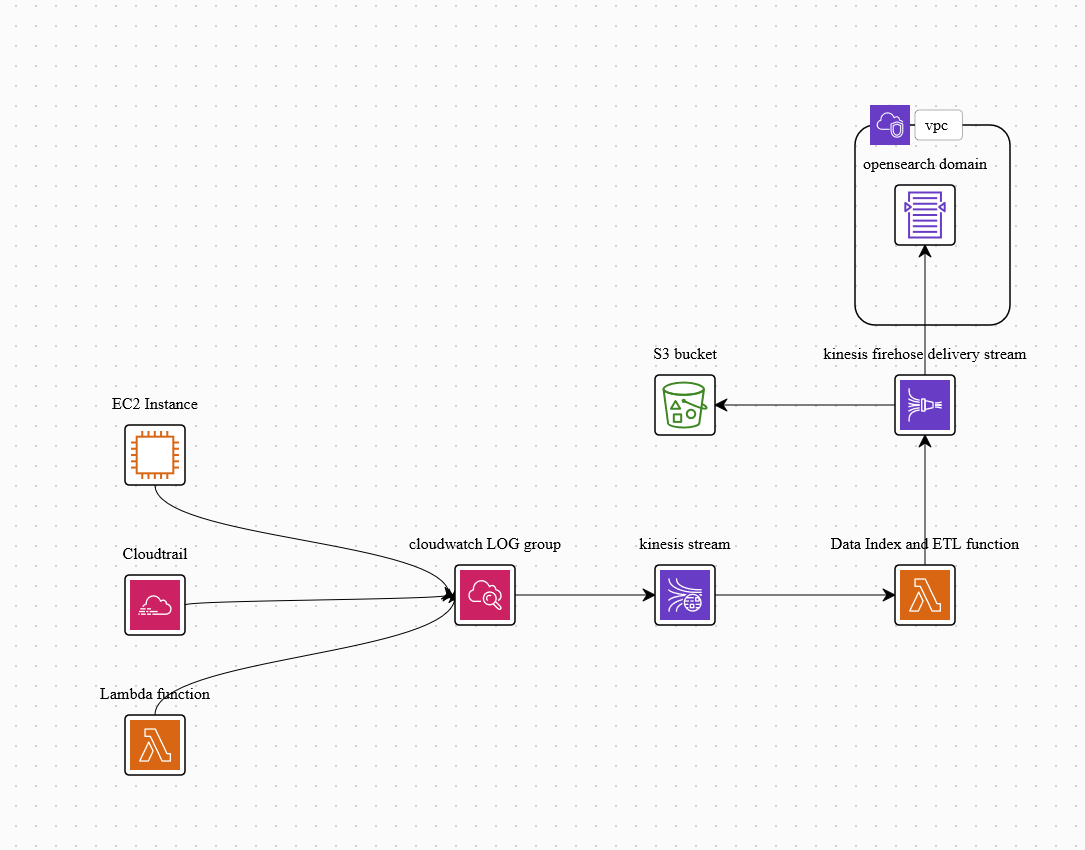
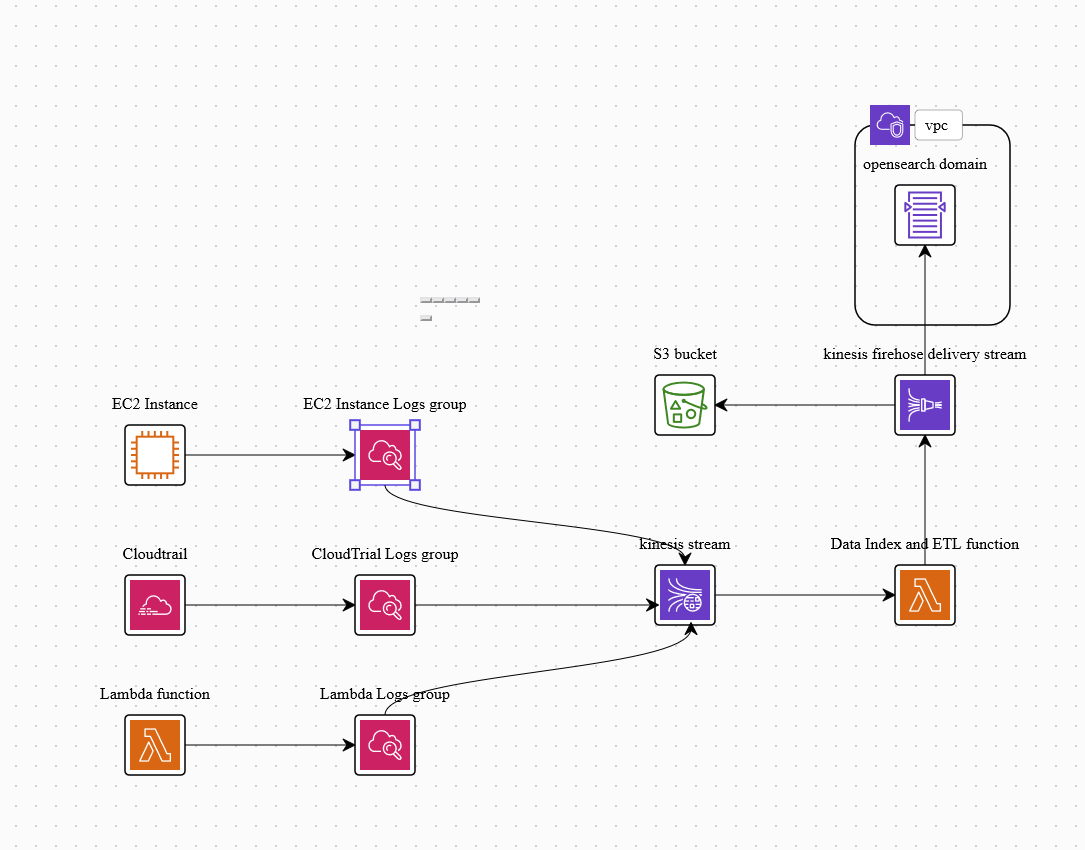
update docs

diff --git a/README.md b/README.md
@@ -1,10 +1,10 @@
-# CloudWatch Logs to OpenSearch Using Kinesis
+# Unified Logging Solution using AWS Services
 
-This article/repo is all about instructions, steps, and usage of IaC (Infrastructure as a Code) on how to construct a unified logging solution inside AWS using CloudWatch, Kinesis, Kinesis Firehose, and OpenSearch. Despite the fact that there are numerous logging solutions available, this one is best suited for organizations that rely heavily on AWS for infrastructure. There is no need to rely on other provider or services, everything can be done within the AWS.
+This article/repo is all about instructions, steps, and usage of IAC (Infrastructure as a Code) on how to construct a unified logging solution inside AWS using CloudWatch, Kinesis, Kinesis Firehose, and OpenSearch. Despite the fact that there are numerous logging solutions available, this one is best suited for organizations that rely heavily on AWS for infrastructure. There is no need to rely on other provider or services, everything can be done within the AWS.
 
-![Infa Diagram](assets/images/infra-diagram.png)
+![infra-diagram.png](/assets/images/infra-diagram.png)
 
-Logs could come from anywhere, CloudTrails, Ec2, S3, Billing, or Custom Applications, but in this one, I’m about to use custom logs from Ec2 Debian Based Instance as example.
+Logs could come from anywhere, CloudTrail's, Ec2, S3, Billing, or Custom Applications, but in this one, I’m about to use logs from Ec2 Debian Based Instance as example.
 
 ## **Setup using AWS UI Wizard**
 
@@ -41,12 +41,12 @@ sudo /opt/aws/amazon-cloudwatch-agent/bin/amazon-cloudwatch-agent-ctl -a fetch-c
 
 **CloudWatch to Amazon Kinesis**
 
-- Create the **Kinesis Stream** in **Amazon Kinesis**
+- Create the **Kinesis Data Stream** in **Amazon Kinesis.**
 - Create the **IAM Policy** for to access Kinesis Stream from **CloudWatch** with following permission
 
 ```json
 {
-  "Version": "2012-10-17",
+	"Version": "2012-10-17",
   "Statement": [{
     "Effect": "Allow",
     "Action": "kinesis:PutRecord",
@@ -55,7 +55,7 @@ sudo /opt/aws/amazon-cloudwatch-agent/bin/amazon-cloudwatch-agent-ctl -a fetch-c
 }
 ```
 
-- Create the **IAM Role** with **Custom trust policy** role type and by using above policy; Sample JSON below
+- Create the **IAM Role** with **Custom trust policy** role type by custom JSON **(Since the CloudWatch logs is not in already defined AWS Services, need to write custom policy)**
 
 ```json
 {
@@ -63,7 +63,7 @@ sudo /opt/aws/amazon-cloudwatch-agent/bin/amazon-cloudwatch-agent-ctl -a fetch-c
   "Statement": {
     "Effect": "Allow",
     "Principal": {
-      "Service": "logs.region.amazonaws.com"
+      "Service": "logs.<REGION>.amazonaws.com"
     },
     "Action": "sts:AssumeRole",
     "Condition": {
@@ -75,7 +75,8 @@ sudo /opt/aws/amazon-cloudwatch-agent/bin/amazon-cloudwatch-agent-ctl -a fetch-c
 }
 ```
 
-- Go to the **CloudWatch** and selecte the desire **Log Group**
+- During **IAM Role** creation, attached the above **IAM Policy**,
+- Go to the **CloudWatch** and select the desired **Log Group**
 - Select to **Action Subscription Filters.**
 - To configure the Destination choose **Create Kinesis Subscription Filter**.
     - Select **Current Account**.
@@ -87,55 +88,148 @@ sudo /opt/aws/amazon-cloudwatch-agent/bin/amazon-cloudwatch-agent-ctl -a fetch-c
     method might also incur higher streaming costs because it requires more 
     shards.
     - **Random** - Distributes the load across Kinesis stream shards, but downstream consumers can't aggregate log events by log stream.
-- Configure log format and named the filter (Filter is the main point in streaimg to other services)
+- Configure log format and named the filter (Filter is the main point in streaming to other services)
 - Verify the pattern
 - Click **Start Streaming**
 
-**Kinesis to Kinesis Firehose and OpenSearch by using Lambda function and S3 as stored and ETL**
+**Creating S3 for Data Stored and AWS Lambda for Data Transformation**
 
 - Go to AWS **S3**
     - Create **bucket** for storing the **firehose logs backup**
 - Go to **AWS Lambda**
-    - Create function to process **Kinesis Logs** aka ETL Function**;** Sample code in javascript below
+    - Create function to process **Kinesis Logs** aka ETL Function**; using the following JavaScript code** below. **(Following code only work in Node.js 18 runtime or above )**
 
 ```jsx
-console.log('Loading function');
+import zlib from "zlib";
 
-exports.handler = async (event, context) => {
-    /* Process the list of records and transform them */
-    const output = event.records.map((record) => ({
-        /* This transformation is the "identity" transformation, the data is left intact */
+export const handler = async (event, context) => {
+  let success = 0; // Number of valid entries found
+  let failure = 0; // Number of invalid entries found
+  /* Process the list of records */
+  const output = event.records.map((record) => {
+    try {
+      const result = zlib
+        .gunzipSync(Buffer.from(record.data, "base64"))
+        .toString();
+      console.log(result);
+      success++;
+      return {
         recordId: record.recordId,
-        result: 'Ok',
-        data: record.data,
-    }));
-    console.log(`Processing completed.  Successful records ${output.length}.`);
-    return { records: output };
+        result: "Ok",
+        data: new Buffer(result).toString("base64"),
+      };
+    } catch (e) {
+      console.log(e);
+      failure++;
+    }
+  });
+  console.log(
+    `Processing completed.  Successful records ${success}, Failed records ${failure}.`
+  );
+  return { records: output };
 };
 ```
 
       
+
+**Configure the Firehose and OpenSearch**
+
+For the better security OpenSearch will run inside VPC, Kinesis Data Firehose can now deliver data into an Amazon OpenSearch Service VPC endpoint. This provides a secure and easy way to ingest, transform, and deliver streaming data. You don’t need to worry about managing your data ingestion and delivery infrastructure. With this new feature, Kinesis Data Firehose enables additional secure communication to Amazon OpenSearch Service VPC endpoints. Amazon OpenSearch Service endpoints that live within a VPC give you an extra layer of security.
+
+When you create a Kinesis Data Firehose delivery stream that delivers data to an Amazon OpenSearch Service VPC endpoint, Kinesis Data Firehose creates an Elastic Network Interface (ENI) in each subnet you select. If you only use one Availability Zone, Kinesis Data Firehose places an endpoint into only one subnet. Similarly, when you create an Amazon OpenSearch Service VPC endpoint, it creates endpoints in the subnets you chose. Kinesis Data Firehose uses ENI to deliver the data to your Amazon OpenSearch Service ENI, all inside your VPC. 
+
+In order to ingest data into OpenSearch which is inside the VPC, need to create multiple security group inside the VPC. At first just create two empty security groups, The one is for Firehose to deliver the stream data and the one for OpenSearch to use. 
+
+**Kinesis Firehose Delivery Security Group**
+
+| Inbound (empty) |  |  |  |
+| --- | --- | --- | --- |
+| Outbound |  |  |  |
+| Type | Protocol | Port Range | Destination |
+| HTTPS | TCP | 443 |  |
+
+**OpenSearch Security Group**
+
+| Inbound |  |  |  |
+| --- | --- | --- | --- |
+| Type | Protocol | Port | Destination |
+| HTTP | TCP | 80 | <Bastion Host IP> |
+| HTTPS | TCP | 443 | <Bastion Host IP> |
+| Outbound |  |  |  |
+| Type | Protocol | Port Range | Destination |
+| All Traffic | All | All |  |
+
+After creating two security groups, need to link them using HTTPS rules like below
+
+**Kinesis Firehose Delivery Security Group (Linked)**
+
+| Inbound (empty) |  |  |  |
+| --- | --- | --- | --- |
+| Outbound |  |  |  |
+| Type | Protocol | Port Range | Destination |
+| HTTPS | TCP | 443 | <OpenSearch Security Group> |
+
+**OpenSearch Security Group (Linked)**
+
+| Inbound |  |  |  |
+| --- | --- | --- | --- |
+| Type | Protocol | Port | Destination |
+| HTTP | TCP | 80 | <Bastion Host IP> |
+| HTTPS | TCP | 443 | <Bastion Host IP> |
+| HTTPS | TCP | 443 | <Firehose Security Group> |
+| Outbound |  |  |  |
+| Type | Protocol | Port Range | Destination |
+| All Traffic | All | All |  |
+
+After creating the security groups:
 
 - Go to **Amazon OpenSearch Service**
     - Click on **Domains** and then click on **Create Domain**
     - Give desire **domain name**
     - Enable **Custom endpoint** or not, (Disable for POC, too complicated for now)
     - Choose **Deployment Type**
-    - Choose **Version** (Only ElasticSearch support dashboard right now)
+    - Choose **Version** (Only Elasticsearch support dashboard right now)
     - Choose **Auto Tune**
     - Choose **Data Nodes**
+    - 
     - In **Network** section, choose VPC access
         - Select **VPC**
         - Select **Subnets**
-        - Select **Security Group (**Enable HTTP and HTTPS to access from Bastion Host or Inside Instances**)**
+        - Select created **OpenSearch Security Group** from above
     - Choose **Fine-grained access control**
+    - Choose **Create master user** and then create master user
     - Create the **OpenSearch Domain**
+
 - Go the **Amazon Kinesis Firehose**
 - Click on **Create Delivery Stream**
     - Choose **Source** and **Destination (**Source: Amazon Kinesis Data Streams and Destination: Amazon OpenSearch Service for current setup**)**
     - Choose **Kinesis data stream**
     - Type **Delivery stream name**
     - Enable **Transform records**, choose created **Lambda Function**
-    - Choose **OpenSearch Domain** and Configure
+    - Choose the created **OpenSearch Domain**
+    - Named the index as **unified-logs** and in index rotation choose **daily rotation**
+    - Configure VPC as in same VPC as the OpenSearch
+    - Choose **Subnet**
+    - Select created **Kinesis Firehose Security Group** from above
     - In **Backup Settings** choose created **S3**
     - Click on **Create delivery stream**
+    
+
+When all of the above steps are finished, need login into OpenSearch using master username and password. Inside the OpenSearch need to do few configuration. Since, **Fine grant control** is enable at OpenSearch, need to grant permissions to **Firehose Delivery** to deliver the data to **OpenSearch.**
+
+- Login into **OpenSearch** Dashboard using **master username and password**
+- Go the **Security** and Clicks **Role**
+- In the role section, click on **Create role**
+- Give the role name as **firehose-role**
+- For cluster permissions, add `cluster_composite_ops`
+ and `cluster_monitor`
+- Under **Index permissions** choose **Index Patterns** and enter `unified-logs*`
+- Under **Permissions,** add three action groups: `crud` `create_index`and `manage`
+- Choose **Save Role Definition**
+
+And then
+
+- Under **Security**, choose **Role Mappings**
+- Choose the role you just created (`firehose-role`).
+- For **Backend Roles**, choose **Add Backend Role**.
+- Enter the IAM ARN of the role Kinesis Data Firehose uses: `arn:aws:iam::<accountid>:role/<*firehose_stream_role_name>*`.
